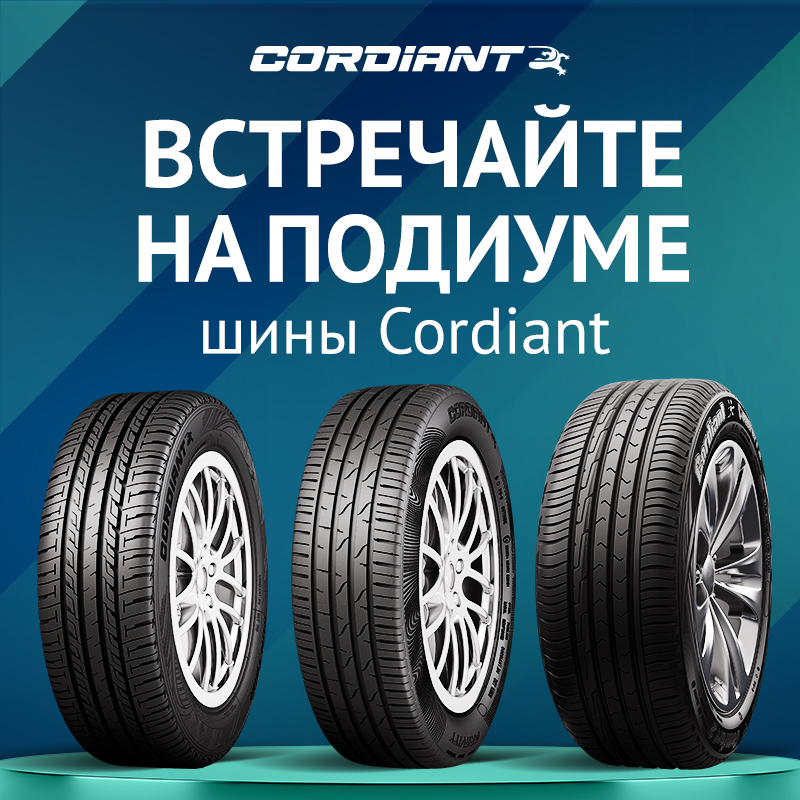
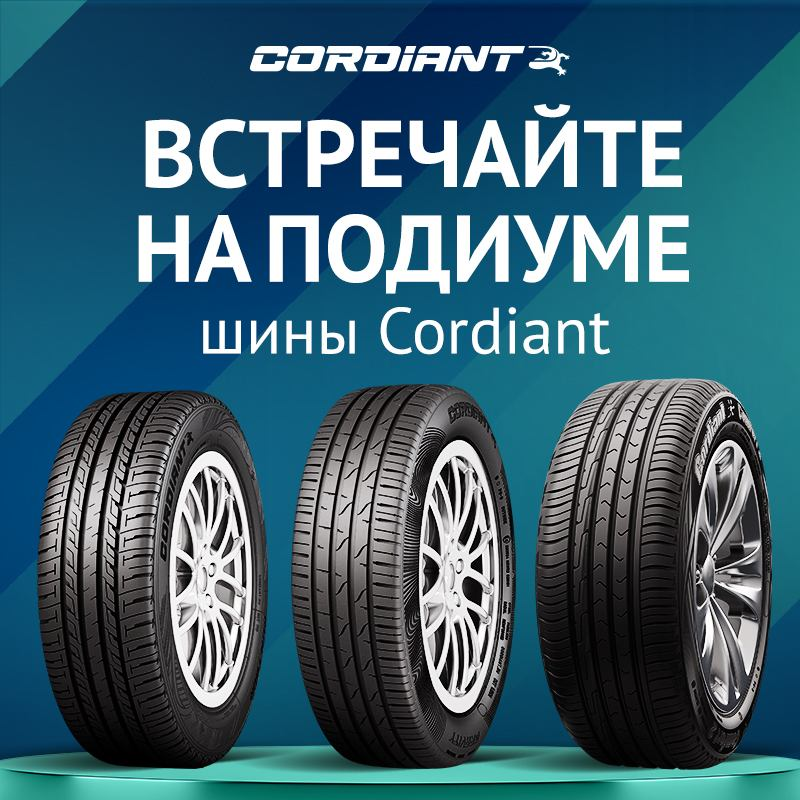
Оптимизировать hero-изображения и обновить cache-busting

diff --git a/styles.css b/styles.css
@@ -159,7 +159,7 @@ ol {
   inset: var(--hero-header-h) 0 0;
   z-index: 0;
   pointer-events: none;
-  background: url("/assets/img/podium.jpeg?v=20260330-1548") center top / 100% auto no-repeat;
+  background: url("/assets/img/podium.jpeg?v=20260330-2315") center top / 100% auto no-repeat;
 }
 
 .cordiant-hero__container {
@@ -568,7 +568,7 @@ body.menu-open {
   }
 
   .section.cordiant-hero::before {
-    background: url("/assets/img/hero/%D0%9F%D0%BE%D0%B4%D0%B8%D1%83%D0%BC%20Cordiant_800%D1%85800.jpg") center top / 100% auto no-repeat;
+    background: url("/assets/img/hero/%D0%9F%D0%BE%D0%B4%D0%B8%D1%83%D0%BC%20Cordiant_800%D1%85800.jpg?v=20260330-2315") center top / 100% auto no-repeat;
   }
 
   .cordiant-hero__container {
